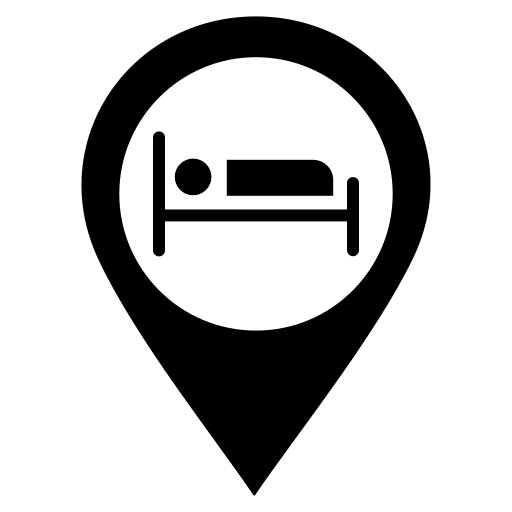
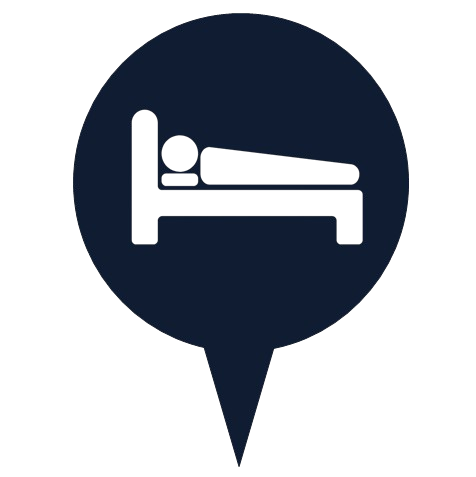
.

diff --git a/src/pages/Map/index.tsx b/src/pages/Map/index.tsx
@@ -10,43 +10,41 @@ import restaurant from "../../media/images/restaurant.png";
 import history from "../../media/images/history.png";
 import place from "../../media/images/place.png";
 import daily from "../../media/images/daily.png";
-import { Modal, Box, Typography, Button, CircularProgress } from "@mui/material";
+import { Modal, Box, Button, CircularProgress } from "@mui/material";
 import { useNavigate } from "react-router-dom";
+import { GlobalParagraph } from "../../global_styles/styles";
 
-// Define the Location interface
 interface Location {
-  id: number; // Adjust this type based on your API response
+  id: number; 
   name: string;
   latitude: number;
   longitude: number;
-  value: string; // This should correspond to the icon type
+  value: string;
 }
 
-// Define the icons object
 const icons: Record<string, L.Icon> = {
   hotel: new L.Icon({
-    iconUrl: hotel, // Ensure this path is correct
+    iconUrl: hotel, 
     iconSize: [50, 50],
   }),
   restaurant: new L.Icon({
-    iconUrl: restaurant, // Ensure this path is correct
+    iconUrl: restaurant, 
     iconSize: [50, 50],
   }),
   history: new L.Icon({
-    iconUrl: history, // Ensure this path is correct
+    iconUrl: history, 
     iconSize: [50, 50],
   }),
   place: new L.Icon({
-    iconUrl: place, // Ensure this path is correct
+    iconUrl: place, 
     iconSize: [50, 50],
   }),
   daily: new L.Icon({
-    iconUrl: daily, // Ensure this path is correct
+    iconUrl: daily, 
     iconSize: [50, 50],
   }),
 };
 
-// Default icon in case location.value does not match
 const defaultIcon = L.icon({
   iconUrl: markerIcon,
   iconSize: [25, 41],
@@ -148,13 +146,13 @@ const Map = () => {
         aria-describedby="modal-description"
       >
         <Box sx={modalStyle}>
-          <Typography id="modal-title" variant="h6" component="h2">
+          {/* <GlobalParagraph fontSize='18px' color='black' mediafontsize='14px' fontWeight='400'>
             Location Details
-          </Typography>
-          <Typography id="modal-description" sx={{ mt: 2 }}>
+          </GlobalParagraph> */}
+          <GlobalParagraph id="modal-description" fontSize='20px' color='black' mediafontsize='14px' fontWeight='700' style={{textAlign: "center"}}>
             {selectedLocation ? selectedLocation.name : ""}
-          </Typography>
-          <Button onClick={navigateFunc} color="primary" sx={{ mt: 2, border: "1px solid gray" }}>
+          </GlobalParagraph>
+          <Button onClick={navigateFunc} variant="contained" fullWidth sx={{marginTop: "30px"}}>
             View
           </Button>
         </Box>

diff --git a/src/components/ServicesLink/ServicesLinkForAllPages.tsx b/src/components/ServicesLink/ServicesLinkForAllPages.tsx
@@ -10,6 +10,7 @@ import { ServicesLinks } from './styles'
 import { sublink } from './types'
 import { Container } from '../../global_styles/styles'
 import { Paper } from '@mui/material'
+import MapIcon from '@mui/icons-material/Map';
 
 let items: sublink[] = [
     {
@@ -45,7 +46,7 @@ let items: sublink[] = [
     {
         name: "Map",
         to: "map",
-        iconc: <BookmarkAddIcon />
+        iconc: <MapIcon />
     }
 ];
 
